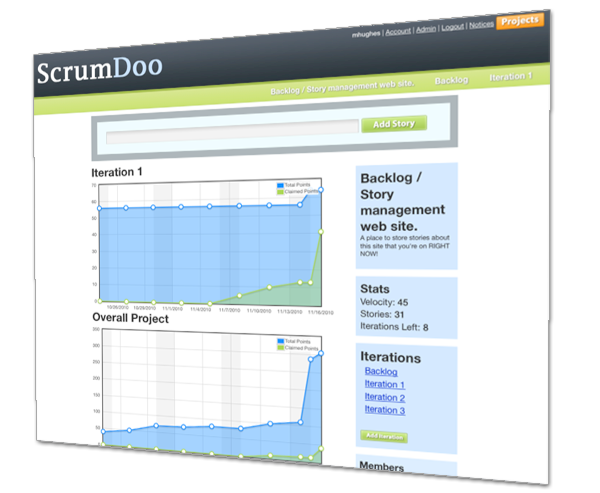
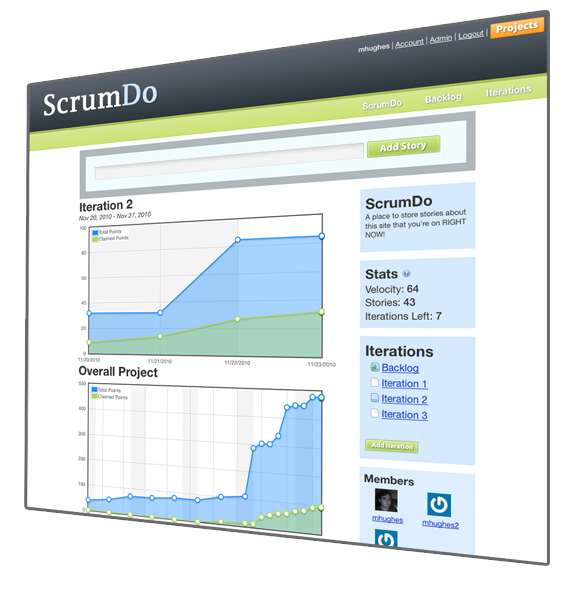
Some more scrumdoo->scrumdo branding.

diff --git a/backlog-site/templates/projects/base.html b/backlog-site/templates/projects/base.html
@@ -16,7 +16,7 @@
         {% if user.is_authenticated %}
           {% if project %}
             <li><a href="{% url project_detail project.slug %} ">{{project.name}}</a></li>
-            <li><a href="{% url stories project.slug %} ">Backlog</a></li>
+            <li><a href="{% url iteration project.slug project.get_default_iteration.id %} ">Backlog</a></li>
             <li><a href="#iteration_header_list" rel="facebox">Iterations</a></li>
           {% else %}
               <li><a href="{% url your_projects %} ">{% trans "Your Projects" %}</a></li>
